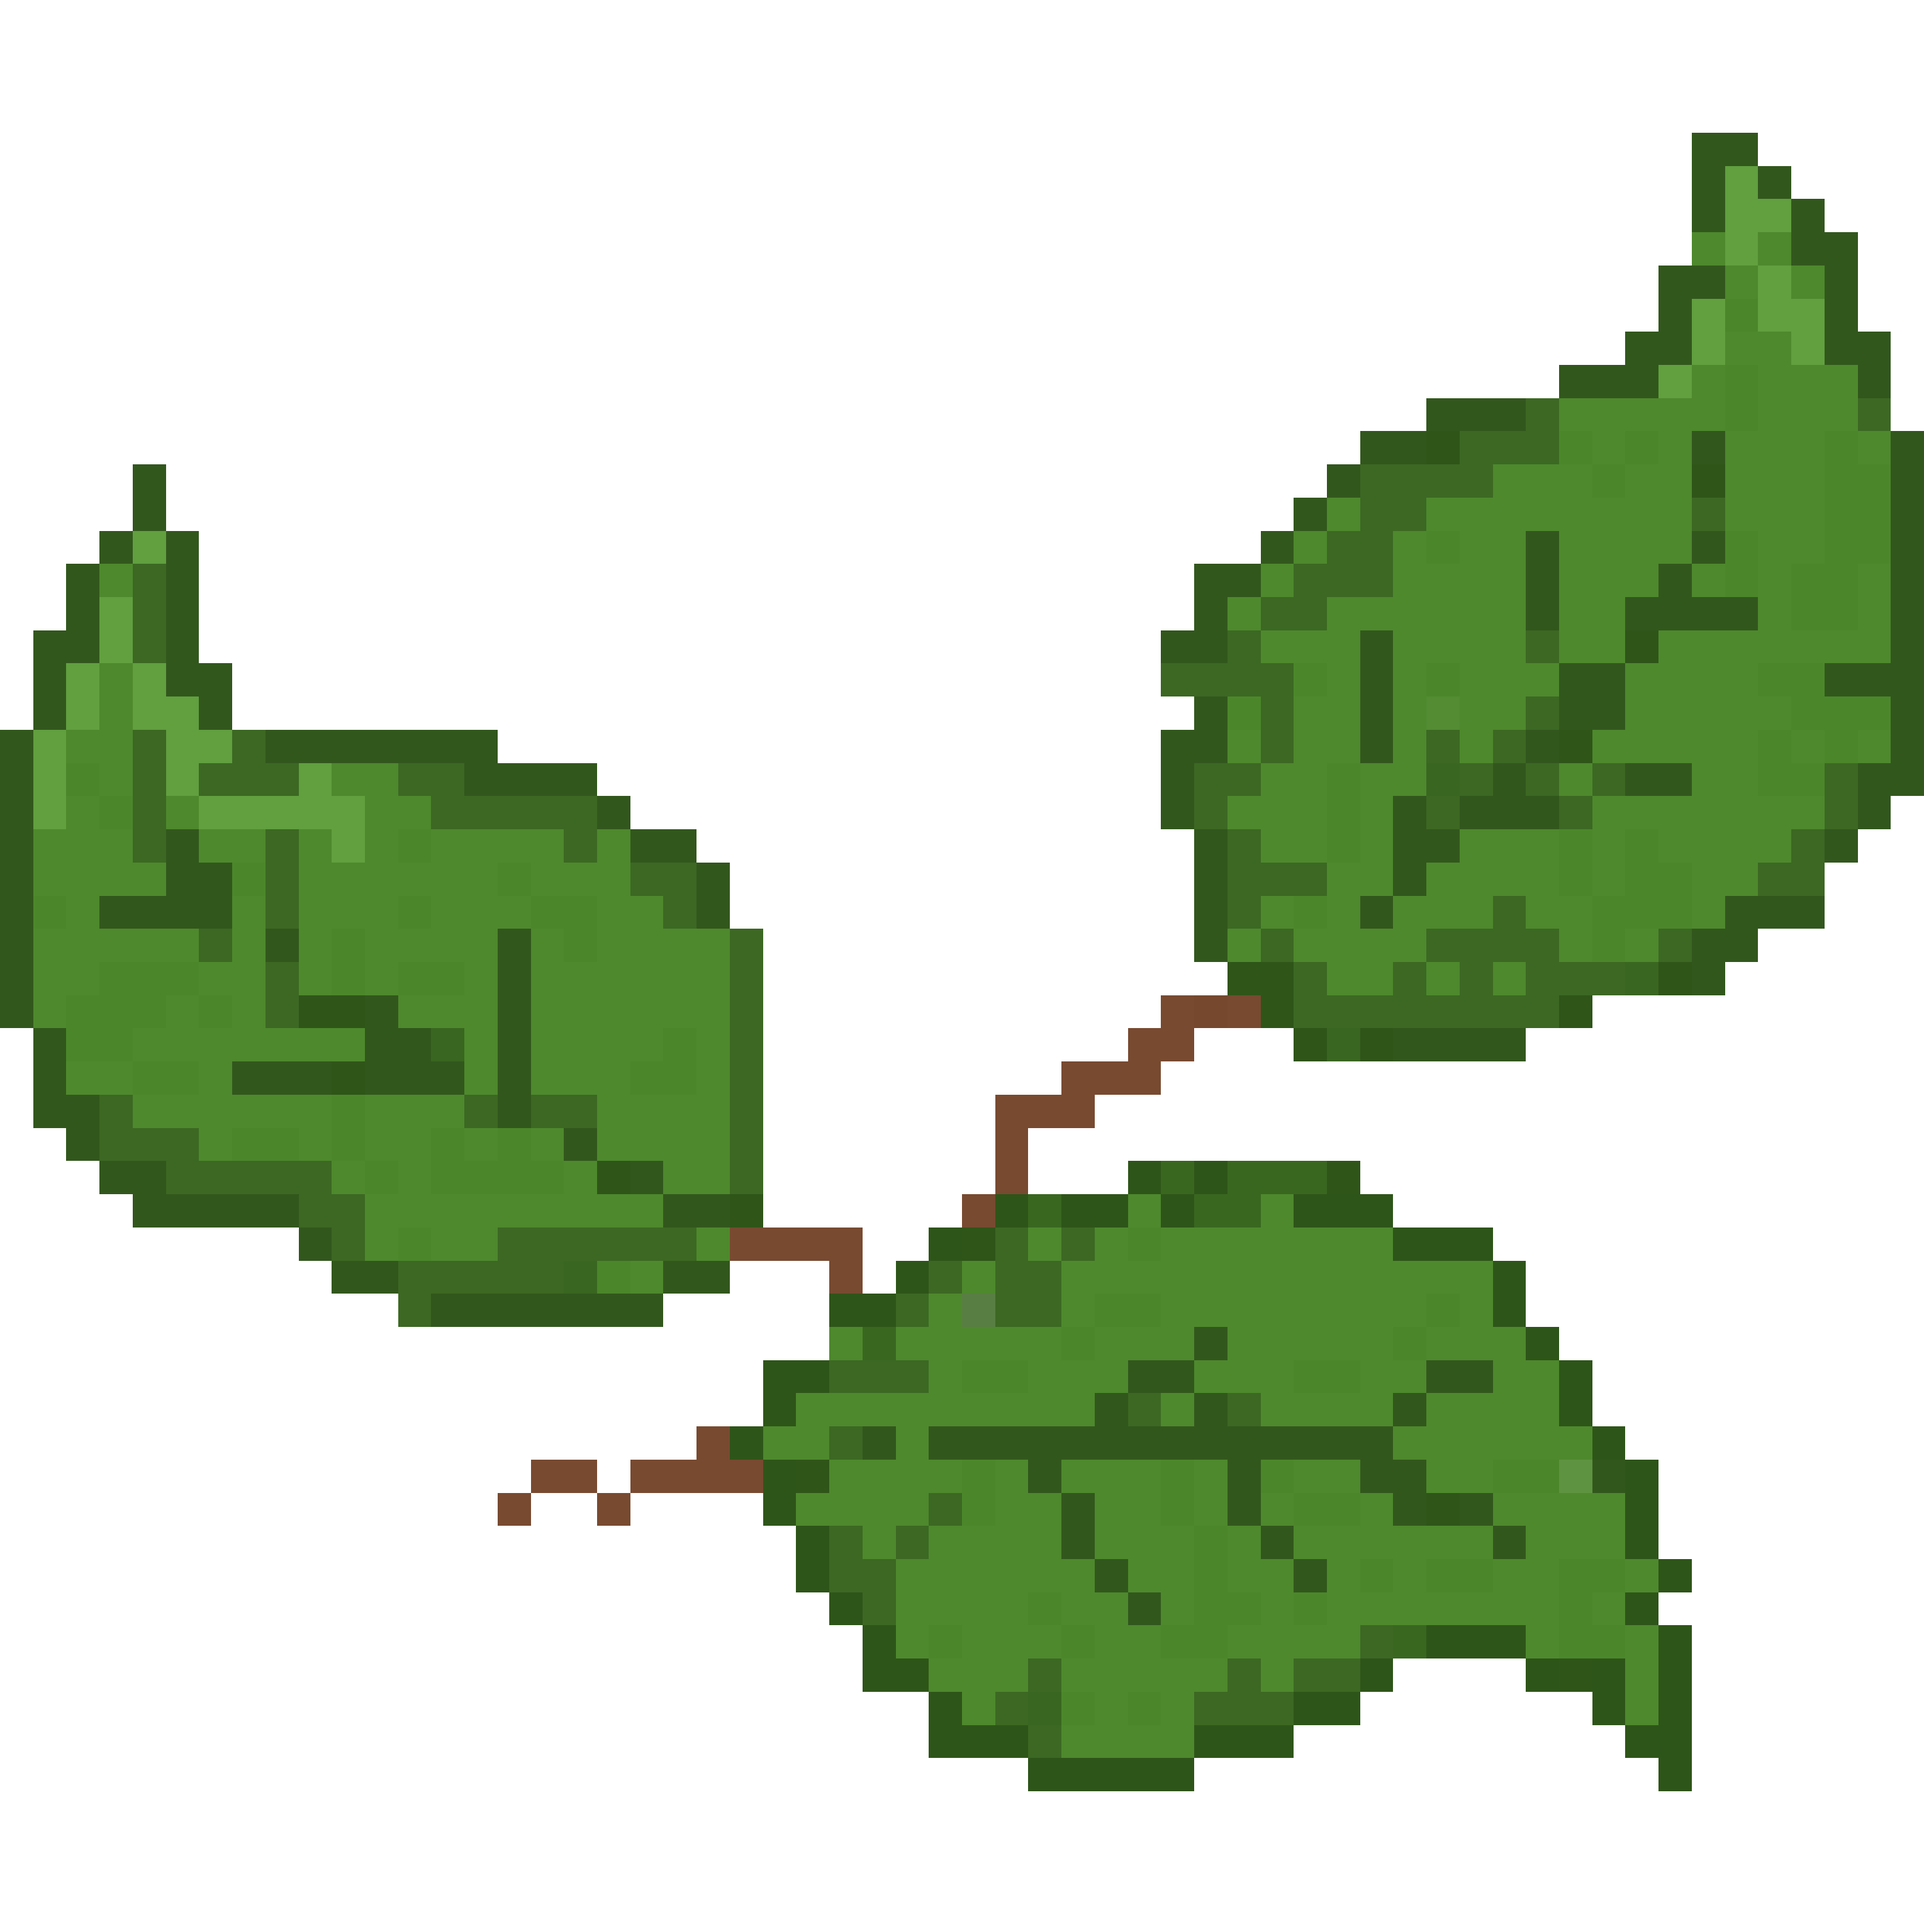
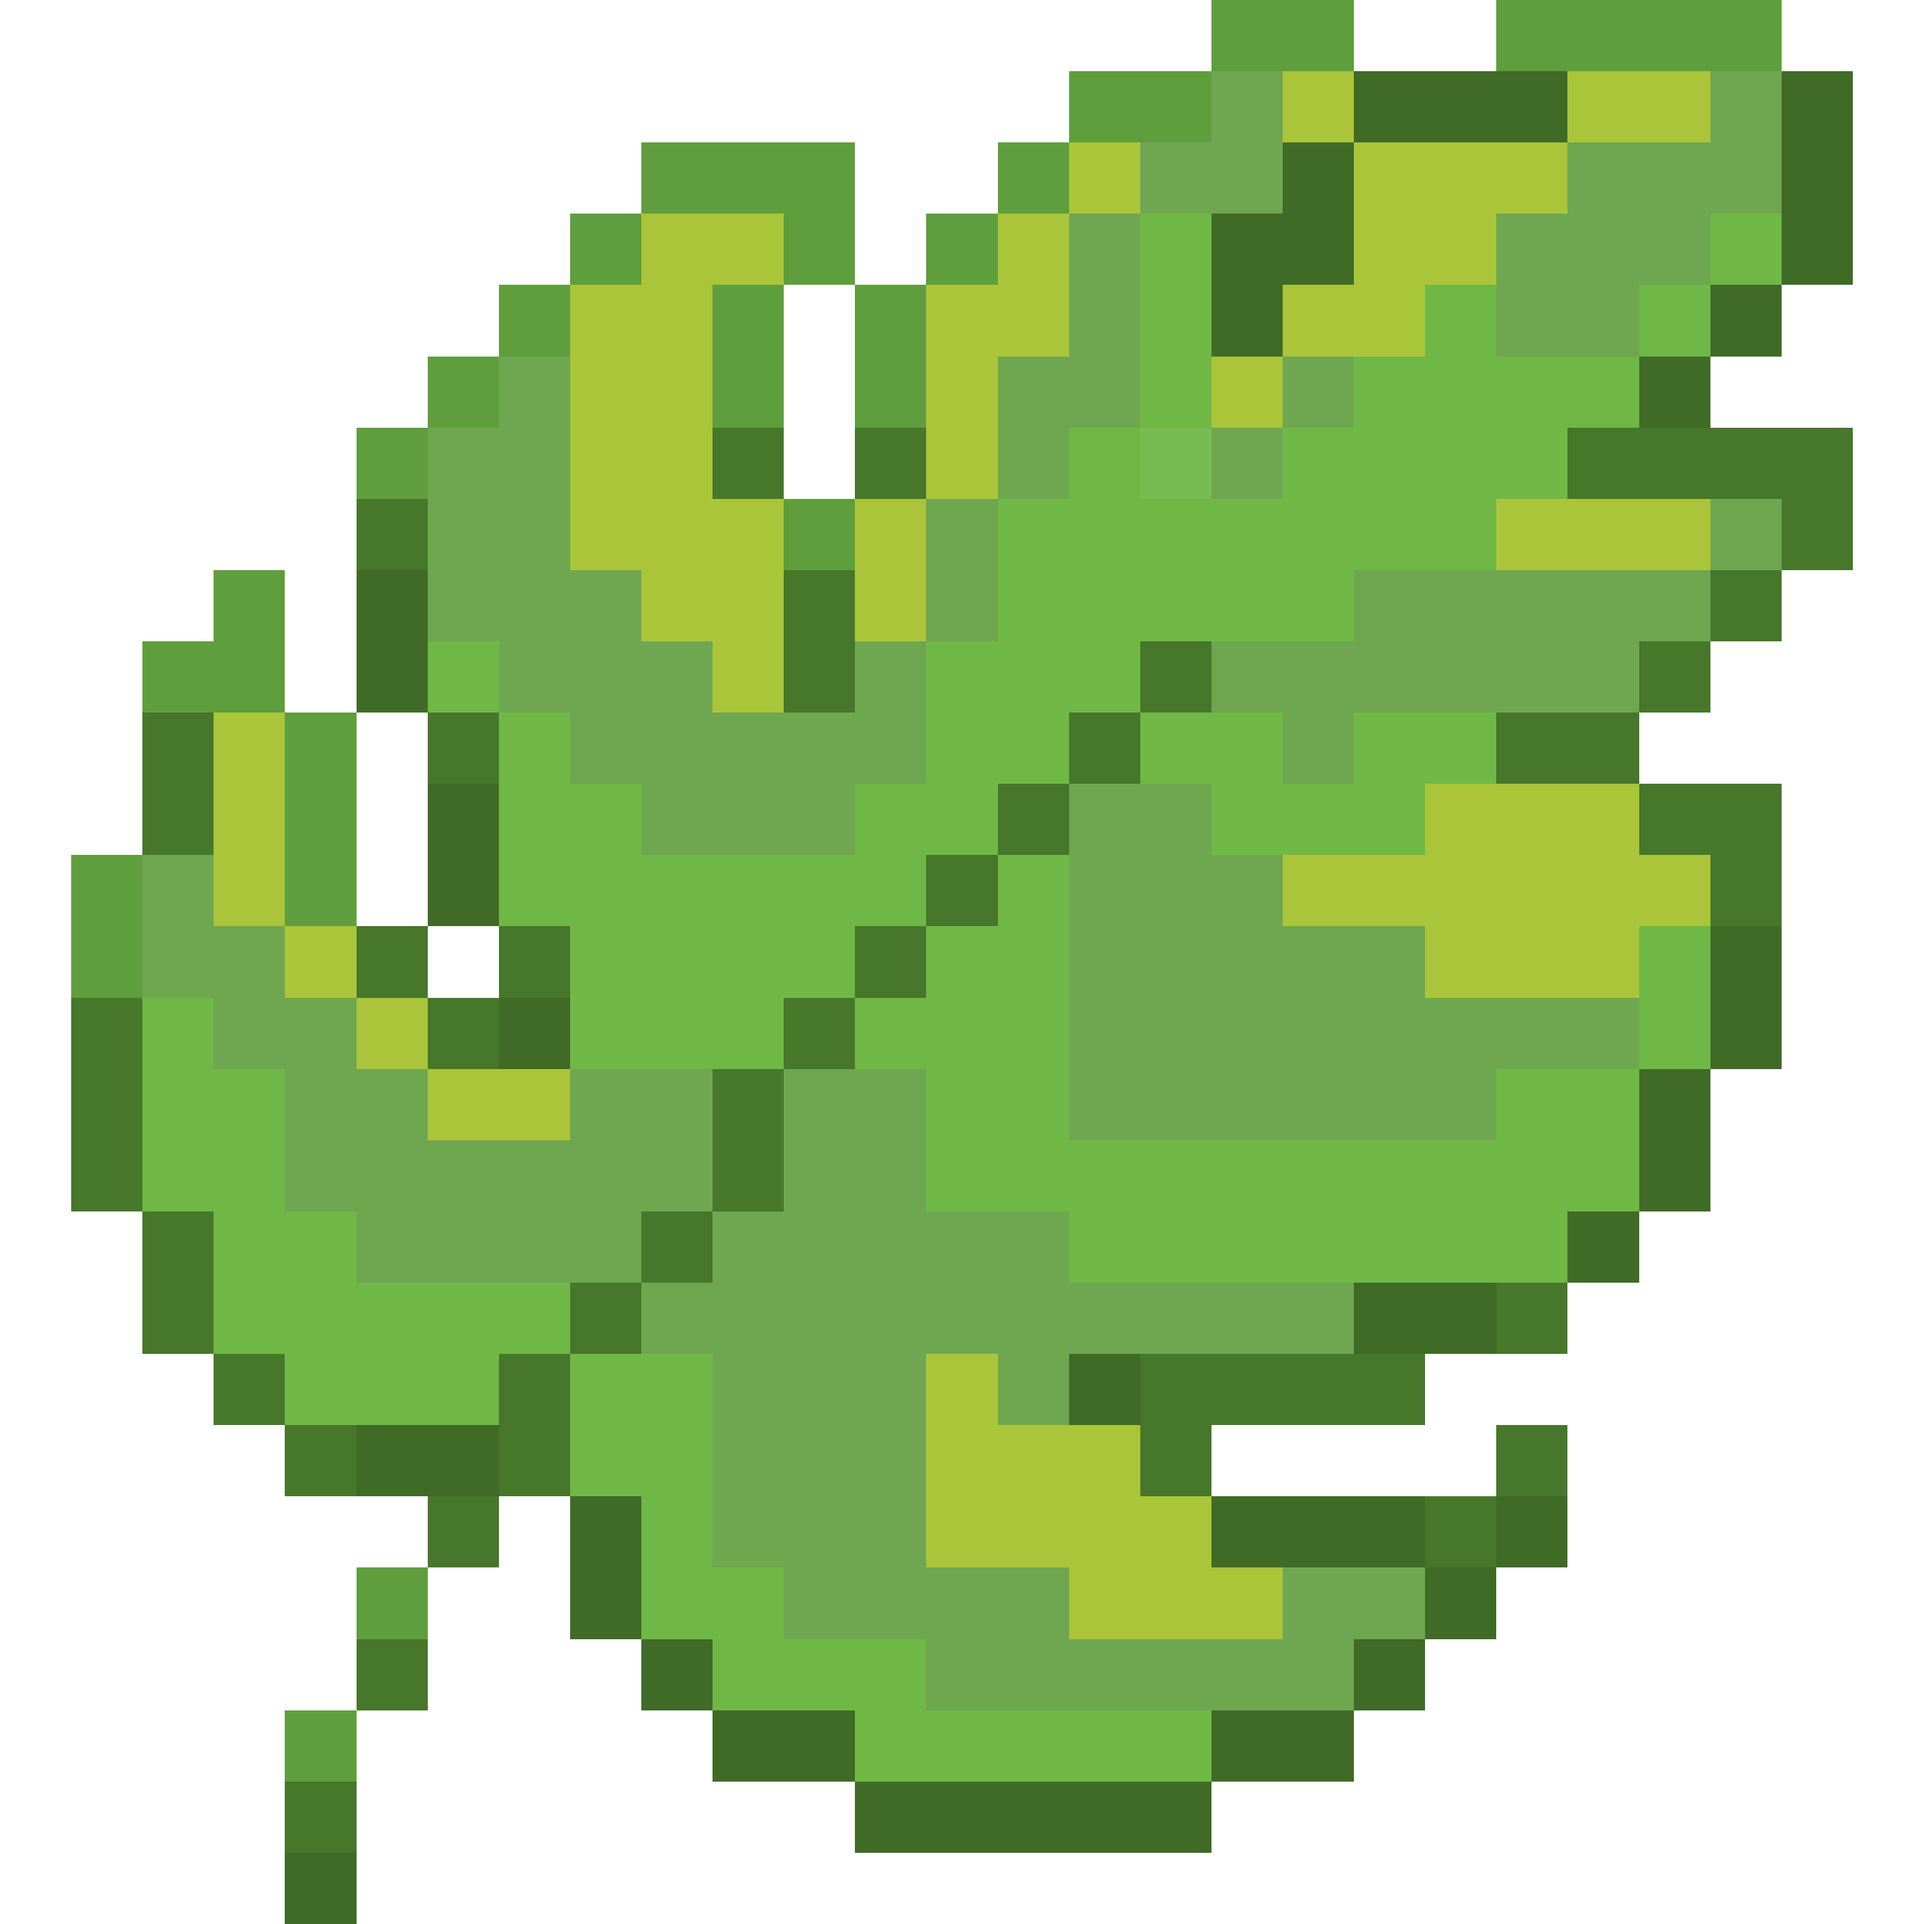
Update leaf image

diff --git a/src/game/GameManager.java b/src/game/GameManager.java
@@ -93,7 +93,7 @@ public class GameManager {
         //initialise food
         foods = new ArrayList<Food>();
         foods.add(new Food("cabage.png", 700,Constants.GROUND_HEIGHT - 250, 60, 60)); 
-        foods.add(new Food("leaf.png", 190,Constants.GROUND_HEIGHT - 285, 60, 60)); 
+        foods.add(new Food("leaf.png", 190,Constants.GROUND_HEIGHT - 290, 60, 60)); 
         foods.add(new Food("seeds.png", 600,Constants.GROUND_HEIGHT - 400, 60, 60)); 
         foods.add(new Food("bamboo.png", 1100,Constants.GROUND_HEIGHT - 355, 60, 60)); 
  
